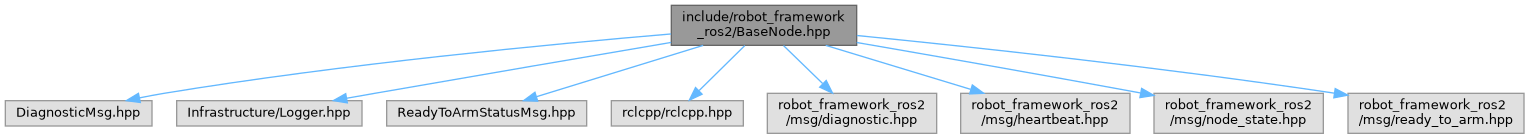
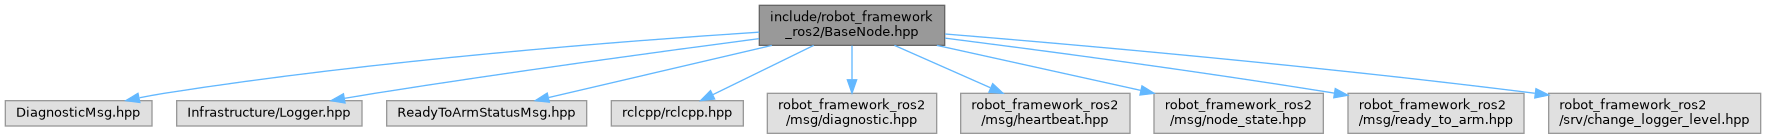
Deploying to gh-pages from  @ ccadf864f13578b655a5d6feec0e01a18417121b 🚀

diff --git a/BaseNode_8hpp_source.html b/BaseNode_8hpp_source.html
@@ -110,113 +110,120 @@ $(document).ready(function(){initNavTree('BaseNode_8hpp_source.html',''); initRe
 <div class="line"><a id="l00020" name="l00020"></a><span class="lineno">   20</span><span class="preprocessor">#include &lt;robot_framework_ros2/msg/heartbeat.hpp&gt;</span></div>
 <div class="line"><a id="l00021" name="l00021"></a><span class="lineno">   21</span><span class="preprocessor">#include &lt;robot_framework_ros2/msg/node_state.hpp&gt;</span></div>
 <div class="line"><a id="l00022" name="l00022"></a><span class="lineno">   22</span><span class="preprocessor">#include &lt;robot_framework_ros2/msg/ready_to_arm.hpp&gt;</span></div>
-<div class="line"><a id="l00023" name="l00023"></a><span class="lineno">   23</span> </div>
-<div class="foldopen" id="foldopen00024" data-start="{" data-end="}">
-<div class="line"><a id="l00024" name="l00024"></a><span class="lineno"><a class="line" href="namespacefast.html">   24</a></span><span class="keyword">namespace </span><a class="code hl_namespace" href="namespacefast_1_1rf__ros2.html">fast::rf_ros2</a> {</div>
-<div class="foldopen" id="foldopen00025" data-start="{" data-end="};">
-<div class="line"><a id="l00025" name="l00025"></a><span class="lineno"><a class="line" href="classfast_1_1rf__ros2_1_1BaseNode.html">   25</a></span>    <span class="keyword">class </span><a class="code hl_class" href="classfast_1_1rf__ros2_1_1BaseNode.html">BaseNode</a> : <span class="keyword">public</span> rclcpp::Node {</div>
-<div class="line"><a id="l00026" name="l00026"></a><span class="lineno">   26</span>       <span class="keyword">public</span>:</div>
-<div class="line"><a id="l00027" name="l00027"></a><span class="lineno">   27</span>        <a class="code hl_class" href="classfast_1_1rf__ros2_1_1BaseNode.html">BaseNode</a>(<span class="keyword">const</span> std::string&amp; node_name);</div>
-<div class="line"><a id="l00028" name="l00028"></a><span class="lineno">   28</span>        <span class="keyword">virtual</span> <a class="code hl_class" href="classfast_1_1rf__ros2_1_1BaseNode.html">~BaseNode</a>() = <span class="keywordflow">default</span>;</div>
-<div class="line"><a id="l00029" name="l00029"></a><span class="lineno">   29</span> </div>
-<div class="line"><a id="l00030" name="l00030"></a><span class="lineno">   30</span>        <span class="comment">// Factory method declaration</span></div>
-<div class="line"><a id="l00031" name="l00031"></a><span class="lineno">   31</span>        <span class="keyword">static</span> std::shared_ptr&lt;BaseNode&gt; createNode();</div>
-<div class="line"><a id="l00032" name="l00032"></a><span class="lineno">   32</span> </div>
-<div class="line"><a id="l00039" name="l00039"></a><span class="lineno">   39</span>        <span class="keywordtype">bool</span> <a class="code hl_function" href="classfast_1_1rf__ros2_1_1BaseNode.html#a137522d07324cebb7983d0883099bb4b">init</a>();</div>
-<div class="line"><a id="l00040" name="l00040"></a><span class="lineno">   40</span> </div>
-<div class="line"><a id="l00047" name="l00047"></a><span class="lineno">   47</span>        <span class="keywordtype">bool</span> <a class="code hl_function" href="classfast_1_1rf__ros2_1_1BaseNode.html#aebfb414138a6ede43aa956e266e35268">start</a>();</div>
-<div class="line"><a id="l00048" name="l00048"></a><span class="lineno">   48</span> </div>
-<div class="line"><a id="l00055" name="l00055"></a><span class="lineno">   55</span>        <span class="keywordtype">bool</span> <a class="code hl_function" href="classfast_1_1rf__ros2_1_1BaseNode.html#ae3e4727c26a032d1c8b0721151cee1a7">reset</a>();</div>
-<div class="line"><a id="l00056" name="l00056"></a><span class="lineno">   56</span> </div>
-<div class="line"><a id="l00057" name="l00057"></a><span class="lineno">   57</span>       <span class="keyword">protected</span>:</div>
-<div class="line"><a id="l00058" name="l00058"></a><span class="lineno">   58</span>        std::string getHostName();</div>
-<div class="line"><a id="l00059" name="l00059"></a><span class="lineno">   59</span>        std::string getBaseNodeName()<span class="keyword"> const </span>{ <span class="keywordflow">return</span> m_baseNodeName; }</div>
-<div class="line"><a id="l00060" name="l00060"></a><span class="lineno">   60</span>        std::string getRobotNamespace() { <span class="keywordflow">return</span> m_robotNamespace; }</div>
-<div class="line"><a id="l00061" name="l00061"></a><span class="lineno">   61</span>        std::string getNamespacedTopic(<span class="keyword">const</span> std::string&amp; topic) <span class="keyword">const</span>;</div>
-<div class="line"><a id="l00062" name="l00062"></a><span class="lineno">   62</span>        std::string getNodeConfigNamespace() { <span class="keywordflow">return</span> m_nodeConfigNamespace; }</div>
-<div class="line"><a id="l00063" name="l00063"></a><span class="lineno">   63</span>        <span class="keywordtype">void</span> setDiagnostics(std::vector&lt;fast::rf::messages::InfrastructureMsgs::DiagnosticMsg&gt; diagnostics) {</div>
-<div class="line"><a id="l00064" name="l00064"></a><span class="lineno">   64</span>            m_diagnostics = diagnostics;</div>
-<div class="line"><a id="l00065" name="l00065"></a><span class="lineno">   65</span>        }</div>
-<div class="line"><a id="l00066" name="l00066"></a><span class="lineno">   66</span>        <span class="keywordtype">void</span> setReadyToArm(fast::rf::messages::InfrastructureMsgs::ReadyToArmStatusMsg readyToArm) {</div>
-<div class="line"><a id="l00067" name="l00067"></a><span class="lineno">   67</span>            m_readyToArm.system_id = readyToArm.systemID;</div>
-<div class="line"><a id="l00068" name="l00068"></a><span class="lineno">   68</span>            m_readyToArm.subsystem_id = readyToArm.subsystemID;</div>
-<div class="line"><a id="l00069" name="l00069"></a><span class="lineno">   69</span>            m_readyToArm.process_id = readyToArm.processID;</div>
-<div class="line"><a id="l00070" name="l00070"></a><span class="lineno">   70</span>            m_readyToArm.ready_to_arm = readyToArm.ready_to_arm;</div>
-<div class="line"><a id="l00071" name="l00071"></a><span class="lineno">   71</span>        }</div>
-<div class="line"><a id="l00072" name="l00072"></a><span class="lineno">   72</span>        <span class="comment">// User Timing Loops</span></div>
-<div class="line"><a id="l00073" name="l00073"></a><span class="lineno">   73</span>        <span class="keyword">virtual</span> <span class="keywordtype">void</span> run100Hz() = 0;</div>
-<div class="line"><a id="l00074" name="l00074"></a><span class="lineno">   74</span>        <span class="keyword">virtual</span> <span class="keywordtype">void</span> run10Hz() = 0;</div>
-<div class="line"><a id="l00075" name="l00075"></a><span class="lineno">   75</span>        <span class="keyword">virtual</span> <span class="keywordtype">void</span> run1Hz() = 0;</div>
-<div class="line"><a id="l00076" name="l00076"></a><span class="lineno">   76</span>        <span class="keyword">virtual</span> <span class="keywordtype">void</span> run01Hz() = 0;</div>
-<div class="line"><a id="l00077" name="l00077"></a><span class="lineno">   77</span>        <span class="keyword">virtual</span> <span class="keywordtype">void</span> run001Hz() = 0;</div>
-<div class="line"><a id="l00078" name="l00078"></a><span class="lineno">   78</span>        <span class="keyword">virtual</span> <span class="keywordtype">void</span> runLoop1() = 0;</div>
-<div class="line"><a id="l00079" name="l00079"></a><span class="lineno">   79</span>        <span class="keyword">virtual</span> <span class="keywordtype">void</span> runLoop2() = 0;</div>
-<div class="line"><a id="l00080" name="l00080"></a><span class="lineno">   80</span>        <span class="keyword">virtual</span> <span class="keywordtype">void</span> runLoop3() = 0;</div>
-<div class="line"><a id="l00081" name="l00081"></a><span class="lineno">   81</span> </div>
-<div class="line"><a id="l00088" name="l00088"></a><span class="lineno"><a class="line" href="classfast_1_1rf__ros2_1_1BaseNode.html#a86ce04061d533c46784d2cd1858349d9">   88</a></span>        <span class="keyword">virtual</span> <span class="keywordtype">bool</span> <a class="code hl_function" href="classfast_1_1rf__ros2_1_1BaseNode.html#a86ce04061d533c46784d2cd1858349d9">loadConfig</a>() = 0;</div>
-<div class="line"><a id="l00089" name="l00089"></a><span class="lineno">   89</span>        <span class="keyword">virtual</span> <span class="keywordtype">bool</span> initPubSubs() = 0;</div>
-<div class="line"><a id="l00090" name="l00090"></a><span class="lineno">   90</span>        <span class="keyword">virtual</span> <span class="keywordtype">bool</span> initServices() = 0;</div>
-<div class="line"><a id="l00091" name="l00091"></a><span class="lineno">   91</span>        <span class="keyword">virtual</span> <span class="keywordtype">bool</span> initDiagnostics() = 0;</div>
-<div class="line"><a id="l00092" name="l00092"></a><span class="lineno">   92</span>        <span class="keyword">virtual</span> <span class="keywordtype">bool</span> initData() = 0;</div>
-<div class="line"><a id="l00093" name="l00093"></a><span class="lineno">   93</span> </div>
-<div class="line"><a id="l00094" name="l00094"></a><span class="lineno">   94</span>        <span class="keyword">virtual</span> std::string pretty() = 0;</div>
-<div class="line"><a id="l00095" name="l00095"></a><span class="lineno">   95</span> </div>
-<div class="line"><a id="l00096" name="l00096"></a><span class="lineno">   96</span>       <span class="keyword">private</span>:</div>
-<div class="line"><a id="l00103" name="l00103"></a><span class="lineno">  103</span>        <span class="keywordtype">bool</span> baseLoadConfig();</div>
-<div class="line"><a id="l00104" name="l00104"></a><span class="lineno">  104</span>        <span class="keywordtype">bool</span> baseInitPubSubs();</div>
-<div class="line"><a id="l00105" name="l00105"></a><span class="lineno">  105</span>        <span class="keywordtype">bool</span> baseInitServices();</div>
-<div class="line"><a id="l00106" name="l00106"></a><span class="lineno">  106</span>        <span class="keywordtype">bool</span> baseInitDiagnostics();</div>
-<div class="line"><a id="l00107" name="l00107"></a><span class="lineno">  107</span>        <span class="keywordtype">bool</span> baseInitData();</div>
-<div class="line"><a id="l00108" name="l00108"></a><span class="lineno">  108</span> </div>
-<div class="line"><a id="l00109" name="l00109"></a><span class="lineno">  109</span>        <span class="keywordtype">bool</span> requestNodeStateChange(uint8_t newState, <span class="keywordtype">bool</span> <span class="keyword">override</span> = <span class="keyword">false</span>);</div>
-<div class="line"><a id="l00110" name="l00110"></a><span class="lineno">  110</span>        <span class="comment">// Properties</span></div>
-<div class="line"><a id="l00111" name="l00111"></a><span class="lineno">  111</span>        std::string m_baseNodeName{<span class="stringliteral">&quot;&quot;</span>};</div>
-<div class="line"><a id="l00112" name="l00112"></a><span class="lineno">  112</span>        robot_framework_ros2::msg::NodeState m_nodeState;</div>
-<div class="line"><a id="l00113" name="l00113"></a><span class="lineno">  113</span>        robot_framework_ros2::msg::Heartbeat m_heartbeat;</div>
-<div class="line"><a id="l00114" name="l00114"></a><span class="lineno">  114</span>        robot_framework_ros2::msg::ReadyToArm m_readyToArm;</div>
-<div class="line"><a id="l00115" name="l00115"></a><span class="lineno">  115</span> </div>
-<div class="line"><a id="l00116" name="l00116"></a><span class="lineno">  116</span>        <span class="comment">// Loop Callbacks and Timers</span></div>
-<div class="line"><a id="l00117" name="l00117"></a><span class="lineno">  117</span>        <span class="keyword">virtual</span> <span class="keywordtype">void</span> timer100HzCallback();</div>
-<div class="line"><a id="l00118" name="l00118"></a><span class="lineno">  118</span>        <span class="keyword">virtual</span> <span class="keywordtype">void</span> timer10HzCallback();</div>
-<div class="line"><a id="l00119" name="l00119"></a><span class="lineno">  119</span>        <span class="keyword">virtual</span> <span class="keywordtype">void</span> timer1HzCallback();</div>
-<div class="line"><a id="l00120" name="l00120"></a><span class="lineno">  120</span>        <span class="keyword">virtual</span> <span class="keywordtype">void</span> timer01HzCallback();</div>
-<div class="line"><a id="l00121" name="l00121"></a><span class="lineno">  121</span>        <span class="keyword">virtual</span> <span class="keywordtype">void</span> timer001HzCallback();</div>
-<div class="line"><a id="l00122" name="l00122"></a><span class="lineno">  122</span>        <span class="keyword">virtual</span> <span class="keywordtype">void</span> timerLoop1Callback();</div>
-<div class="line"><a id="l00123" name="l00123"></a><span class="lineno">  123</span>        <span class="keyword">virtual</span> <span class="keywordtype">void</span> timerLoop2Callback();</div>
-<div class="line"><a id="l00124" name="l00124"></a><span class="lineno">  124</span>        <span class="keyword">virtual</span> <span class="keywordtype">void</span> timerLoop3Callback();</div>
-<div class="line"><a id="l00125" name="l00125"></a><span class="lineno">  125</span>        rclcpp::TimerBase::SharedPtr m_timer100Hz{<span class="keyword">nullptr</span>};</div>
-<div class="line"><a id="l00126" name="l00126"></a><span class="lineno">  126</span>        rclcpp::TimerBase::SharedPtr m_timer10Hz{<span class="keyword">nullptr</span>};</div>
-<div class="line"><a id="l00127" name="l00127"></a><span class="lineno">  127</span>        rclcpp::TimerBase::SharedPtr m_timer1Hz{<span class="keyword">nullptr</span>};</div>
-<div class="line"><a id="l00128" name="l00128"></a><span class="lineno">  128</span>        rclcpp::TimerBase::SharedPtr m_timer01Hz{<span class="keyword">nullptr</span>};</div>
-<div class="line"><a id="l00129" name="l00129"></a><span class="lineno">  129</span>        rclcpp::TimerBase::SharedPtr m_timer001Hz{<span class="keyword">nullptr</span>};</div>
-<div class="line"><a id="l00130" name="l00130"></a><span class="lineno">  130</span>        rclcpp::TimerBase::SharedPtr m_timerLoop1{<span class="keyword">nullptr</span>};</div>
-<div class="line"><a id="l00131" name="l00131"></a><span class="lineno">  131</span>        rclcpp::TimerBase::SharedPtr m_timerLoop2{<span class="keyword">nullptr</span>};</div>
-<div class="line"><a id="l00132" name="l00132"></a><span class="lineno">  132</span>        rclcpp::TimerBase::SharedPtr m_timerLoop3{<span class="keyword">nullptr</span>};</div>
-<div class="line"><a id="l00133" name="l00133"></a><span class="lineno">  133</span>        <span class="keywordtype">void</span> baseRun100Hz();</div>
-<div class="line"><a id="l00134" name="l00134"></a><span class="lineno">  134</span>        <span class="keywordtype">void</span> baseRun10Hz();</div>
-<div class="line"><a id="l00135" name="l00135"></a><span class="lineno">  135</span>        <span class="keywordtype">void</span> baseRun1Hz();</div>
-<div class="line"><a id="l00136" name="l00136"></a><span class="lineno">  136</span>        <span class="keywordtype">void</span> baseRun01Hz();</div>
-<div class="line"><a id="l00137" name="l00137"></a><span class="lineno">  137</span>        <span class="keywordtype">void</span> baseRun001Hz();</div>
-<div class="line"><a id="l00138" name="l00138"></a><span class="lineno">  138</span> </div>
-<div class="line"><a id="l00139" name="l00139"></a><span class="lineno">  139</span>        <span class="comment">// Pubs and Subs</span></div>
-<div class="line"><a id="l00140" name="l00140"></a><span class="lineno">  140</span>        rclcpp::Publisher&lt;robot_framework_ros2::msg::Heartbeat&gt;::SharedPtr m_heartbeatPub;</div>
-<div class="line"><a id="l00141" name="l00141"></a><span class="lineno">  141</span>        rclcpp::Publisher&lt;robot_framework_ros2::msg::Diagnostic&gt;::SharedPtr m_diagnosticPub;</div>
-<div class="line"><a id="l00142" name="l00142"></a><span class="lineno">  142</span>        rclcpp::Publisher&lt;robot_framework_ros2::msg::ReadyToArm&gt;::SharedPtr m_readyToArmPub;</div>
-<div class="line"><a id="l00143" name="l00143"></a><span class="lineno">  143</span> </div>
-<div class="line"><a id="l00144" name="l00144"></a><span class="lineno">  144</span>        <span class="comment">// Data</span></div>
-<div class="line"><a id="l00145" name="l00145"></a><span class="lineno">  145</span>        std::vector&lt;fast::rf::messages::InfrastructureMsgs::DiagnosticMsg&gt; m_diagnostics;</div>
-<div class="line"><a id="l00146" name="l00146"></a><span class="lineno">  146</span>        std::string m_robotNamespace;</div>
-<div class="line"><a id="l00147" name="l00147"></a><span class="lineno">  147</span>        std::string m_nodeConfigNamespace;</div>
-<div class="line"><a id="l00148" name="l00148"></a><span class="lineno">  148</span>    };</div>
+<div class="line"><a id="l00023" name="l00023"></a><span class="lineno">   23</span><span class="preprocessor">#include &lt;robot_framework_ros2/srv/change_logger_level.hpp&gt;</span></div>
+<div class="line"><a id="l00024" name="l00024"></a><span class="lineno">   24</span> </div>
+<div class="foldopen" id="foldopen00025" data-start="{" data-end="}">
+<div class="line"><a id="l00025" name="l00025"></a><span class="lineno"><a class="line" href="namespacefast.html">   25</a></span><span class="keyword">namespace </span><a class="code hl_namespace" href="namespacefast_1_1rf__ros2.html">fast::rf_ros2</a> {</div>
+<div class="foldopen" id="foldopen00026" data-start="{" data-end="};">
+<div class="line"><a id="l00026" name="l00026"></a><span class="lineno"><a class="line" href="classfast_1_1rf__ros2_1_1BaseNode.html">   26</a></span>    <span class="keyword">class </span><a class="code hl_class" href="classfast_1_1rf__ros2_1_1BaseNode.html">BaseNode</a> : <span class="keyword">public</span> rclcpp::Node {</div>
+<div class="line"><a id="l00027" name="l00027"></a><span class="lineno">   27</span>       <span class="keyword">public</span>:</div>
+<div class="line"><a id="l00028" name="l00028"></a><span class="lineno">   28</span>        <a class="code hl_class" href="classfast_1_1rf__ros2_1_1BaseNode.html">BaseNode</a>(<span class="keyword">const</span> std::string&amp; node_name);</div>
+<div class="line"><a id="l00029" name="l00029"></a><span class="lineno">   29</span>        <span class="keyword">virtual</span> <a class="code hl_class" href="classfast_1_1rf__ros2_1_1BaseNode.html">~BaseNode</a>() = <span class="keywordflow">default</span>;</div>
+<div class="line"><a id="l00030" name="l00030"></a><span class="lineno">   30</span> </div>
+<div class="line"><a id="l00031" name="l00031"></a><span class="lineno">   31</span>        <span class="comment">// Factory method declaration</span></div>
+<div class="line"><a id="l00032" name="l00032"></a><span class="lineno">   32</span>        <span class="keyword">static</span> std::shared_ptr&lt;BaseNode&gt; createNode();</div>
+<div class="line"><a id="l00033" name="l00033"></a><span class="lineno">   33</span> </div>
+<div class="line"><a id="l00040" name="l00040"></a><span class="lineno">   40</span>        <span class="keywordtype">bool</span> <a class="code hl_function" href="classfast_1_1rf__ros2_1_1BaseNode.html#a137522d07324cebb7983d0883099bb4b">init</a>();</div>
+<div class="line"><a id="l00041" name="l00041"></a><span class="lineno">   41</span> </div>
+<div class="line"><a id="l00048" name="l00048"></a><span class="lineno">   48</span>        <span class="keywordtype">bool</span> <a class="code hl_function" href="classfast_1_1rf__ros2_1_1BaseNode.html#aebfb414138a6ede43aa956e266e35268">start</a>();</div>
+<div class="line"><a id="l00049" name="l00049"></a><span class="lineno">   49</span> </div>
+<div class="line"><a id="l00056" name="l00056"></a><span class="lineno">   56</span>        <span class="keywordtype">bool</span> <a class="code hl_function" href="classfast_1_1rf__ros2_1_1BaseNode.html#ae3e4727c26a032d1c8b0721151cee1a7">reset</a>();</div>
+<div class="line"><a id="l00057" name="l00057"></a><span class="lineno">   57</span> </div>
+<div class="line"><a id="l00058" name="l00058"></a><span class="lineno">   58</span>       <span class="keyword">protected</span>:</div>
+<div class="line"><a id="l00059" name="l00059"></a><span class="lineno">   59</span>        std::string getHostName();</div>
+<div class="line"><a id="l00060" name="l00060"></a><span class="lineno">   60</span>        std::string getBaseNodeName()<span class="keyword"> const </span>{ <span class="keywordflow">return</span> m_baseNodeName; }</div>
+<div class="line"><a id="l00061" name="l00061"></a><span class="lineno">   61</span>        std::string getRobotNamespace() { <span class="keywordflow">return</span> m_robotNamespace; }</div>
+<div class="line"><a id="l00062" name="l00062"></a><span class="lineno">   62</span>        std::string getNamespacedTopic(<span class="keyword">const</span> std::string&amp; topic) <span class="keyword">const</span>;</div>
+<div class="line"><a id="l00063" name="l00063"></a><span class="lineno">   63</span>        std::string getNodeConfigNamespace() { <span class="keywordflow">return</span> m_nodeConfigNamespace; }</div>
+<div class="line"><a id="l00064" name="l00064"></a><span class="lineno">   64</span>        <span class="keywordtype">void</span> setDiagnostics(std::vector&lt;fast::rf::messages::InfrastructureMsgs::DiagnosticMsg&gt; diagnostics) {</div>
+<div class="line"><a id="l00065" name="l00065"></a><span class="lineno">   65</span>            m_diagnostics = diagnostics;</div>
+<div class="line"><a id="l00066" name="l00066"></a><span class="lineno">   66</span>        }</div>
+<div class="line"><a id="l00067" name="l00067"></a><span class="lineno">   67</span>        <span class="keywordtype">void</span> setReadyToArm(fast::rf::messages::InfrastructureMsgs::ReadyToArmStatusMsg readyToArm) {</div>
+<div class="line"><a id="l00068" name="l00068"></a><span class="lineno">   68</span>            m_readyToArm.system_id = readyToArm.systemID;</div>
+<div class="line"><a id="l00069" name="l00069"></a><span class="lineno">   69</span>            m_readyToArm.subsystem_id = readyToArm.subsystemID;</div>
+<div class="line"><a id="l00070" name="l00070"></a><span class="lineno">   70</span>            m_readyToArm.process_id = readyToArm.processID;</div>
+<div class="line"><a id="l00071" name="l00071"></a><span class="lineno">   71</span>            m_readyToArm.ready_to_arm = readyToArm.ready_to_arm;</div>
+<div class="line"><a id="l00072" name="l00072"></a><span class="lineno">   72</span>        }</div>
+<div class="line"><a id="l00073" name="l00073"></a><span class="lineno">   73</span>        <span class="comment">// User Timing Loops</span></div>
+<div class="line"><a id="l00074" name="l00074"></a><span class="lineno">   74</span>        <span class="keyword">virtual</span> <span class="keywordtype">void</span> run100Hz() = 0;</div>
+<div class="line"><a id="l00075" name="l00075"></a><span class="lineno">   75</span>        <span class="keyword">virtual</span> <span class="keywordtype">void</span> run10Hz() = 0;</div>
+<div class="line"><a id="l00076" name="l00076"></a><span class="lineno">   76</span>        <span class="keyword">virtual</span> <span class="keywordtype">void</span> run1Hz() = 0;</div>
+<div class="line"><a id="l00077" name="l00077"></a><span class="lineno">   77</span>        <span class="keyword">virtual</span> <span class="keywordtype">void</span> run01Hz() = 0;</div>
+<div class="line"><a id="l00078" name="l00078"></a><span class="lineno">   78</span>        <span class="keyword">virtual</span> <span class="keywordtype">void</span> run001Hz() = 0;</div>
+<div class="line"><a id="l00079" name="l00079"></a><span class="lineno">   79</span>        <span class="keyword">virtual</span> <span class="keywordtype">void</span> runLoop1() = 0;</div>
+<div class="line"><a id="l00080" name="l00080"></a><span class="lineno">   80</span>        <span class="keyword">virtual</span> <span class="keywordtype">void</span> runLoop2() = 0;</div>
+<div class="line"><a id="l00081" name="l00081"></a><span class="lineno">   81</span>        <span class="keyword">virtual</span> <span class="keywordtype">void</span> runLoop3() = 0;</div>
+<div class="line"><a id="l00082" name="l00082"></a><span class="lineno">   82</span> </div>
+<div class="line"><a id="l00089" name="l00089"></a><span class="lineno"><a class="line" href="classfast_1_1rf__ros2_1_1BaseNode.html#a86ce04061d533c46784d2cd1858349d9">   89</a></span>        <span class="keyword">virtual</span> <span class="keywordtype">bool</span> <a class="code hl_function" href="classfast_1_1rf__ros2_1_1BaseNode.html#a86ce04061d533c46784d2cd1858349d9">loadConfig</a>() = 0;</div>
+<div class="line"><a id="l00090" name="l00090"></a><span class="lineno">   90</span>        <span class="keyword">virtual</span> <span class="keywordtype">bool</span> initPubSubs() = 0;</div>
+<div class="line"><a id="l00091" name="l00091"></a><span class="lineno">   91</span>        <span class="keyword">virtual</span> <span class="keywordtype">bool</span> initServices() = 0;</div>
+<div class="line"><a id="l00092" name="l00092"></a><span class="lineno">   92</span>        <span class="keyword">virtual</span> <span class="keywordtype">bool</span> initDiagnostics() = 0;</div>
+<div class="line"><a id="l00093" name="l00093"></a><span class="lineno">   93</span>        <span class="keyword">virtual</span> <span class="keywordtype">bool</span> initData() = 0;</div>
+<div class="line"><a id="l00094" name="l00094"></a><span class="lineno">   94</span> </div>
+<div class="line"><a id="l00095" name="l00095"></a><span class="lineno">   95</span>        <span class="keyword">virtual</span> std::string pretty() = 0;</div>
+<div class="line"><a id="l00096" name="l00096"></a><span class="lineno">   96</span> </div>
+<div class="line"><a id="l00097" name="l00097"></a><span class="lineno">   97</span>       <span class="keyword">private</span>:</div>
+<div class="line"><a id="l00104" name="l00104"></a><span class="lineno">  104</span>        <span class="keywordtype">bool</span> baseLoadConfig();</div>
+<div class="line"><a id="l00105" name="l00105"></a><span class="lineno">  105</span>        <span class="keywordtype">bool</span> baseInitPubSubs();</div>
+<div class="line"><a id="l00106" name="l00106"></a><span class="lineno">  106</span>        <span class="keywordtype">bool</span> baseInitServices();</div>
+<div class="line"><a id="l00107" name="l00107"></a><span class="lineno">  107</span>        <span class="keywordtype">bool</span> baseInitDiagnostics();</div>
+<div class="line"><a id="l00108" name="l00108"></a><span class="lineno">  108</span>        <span class="keywordtype">bool</span> baseInitData();</div>
+<div class="line"><a id="l00109" name="l00109"></a><span class="lineno">  109</span> </div>
+<div class="line"><a id="l00110" name="l00110"></a><span class="lineno">  110</span>        <span class="keywordtype">bool</span> requestNodeStateChange(uint8_t newState, <span class="keywordtype">bool</span> <span class="keyword">override</span> = <span class="keyword">false</span>);</div>
+<div class="line"><a id="l00111" name="l00111"></a><span class="lineno">  111</span>        <span class="comment">// Properties</span></div>
+<div class="line"><a id="l00112" name="l00112"></a><span class="lineno">  112</span>        std::string m_baseNodeName{<span class="stringliteral">&quot;&quot;</span>};</div>
+<div class="line"><a id="l00113" name="l00113"></a><span class="lineno">  113</span>        robot_framework_ros2::msg::NodeState m_nodeState;</div>
+<div class="line"><a id="l00114" name="l00114"></a><span class="lineno">  114</span>        robot_framework_ros2::msg::Heartbeat m_heartbeat;</div>
+<div class="line"><a id="l00115" name="l00115"></a><span class="lineno">  115</span>        robot_framework_ros2::msg::ReadyToArm m_readyToArm;</div>
+<div class="line"><a id="l00116" name="l00116"></a><span class="lineno">  116</span> </div>
+<div class="line"><a id="l00117" name="l00117"></a><span class="lineno">  117</span>        <span class="comment">// Loop Callbacks and Timers</span></div>
+<div class="line"><a id="l00118" name="l00118"></a><span class="lineno">  118</span>        <span class="keyword">virtual</span> <span class="keywordtype">void</span> timer100HzCallback();</div>
+<div class="line"><a id="l00119" name="l00119"></a><span class="lineno">  119</span>        <span class="keyword">virtual</span> <span class="keywordtype">void</span> timer10HzCallback();</div>
+<div class="line"><a id="l00120" name="l00120"></a><span class="lineno">  120</span>        <span class="keyword">virtual</span> <span class="keywordtype">void</span> timer1HzCallback();</div>
+<div class="line"><a id="l00121" name="l00121"></a><span class="lineno">  121</span>        <span class="keyword">virtual</span> <span class="keywordtype">void</span> timer01HzCallback();</div>
+<div class="line"><a id="l00122" name="l00122"></a><span class="lineno">  122</span>        <span class="keyword">virtual</span> <span class="keywordtype">void</span> timer001HzCallback();</div>
+<div class="line"><a id="l00123" name="l00123"></a><span class="lineno">  123</span>        <span class="keyword">virtual</span> <span class="keywordtype">void</span> timerLoop1Callback();</div>
+<div class="line"><a id="l00124" name="l00124"></a><span class="lineno">  124</span>        <span class="keyword">virtual</span> <span class="keywordtype">void</span> timerLoop2Callback();</div>
+<div class="line"><a id="l00125" name="l00125"></a><span class="lineno">  125</span>        <span class="keyword">virtual</span> <span class="keywordtype">void</span> timerLoop3Callback();</div>
+<div class="line"><a id="l00126" name="l00126"></a><span class="lineno">  126</span>        rclcpp::TimerBase::SharedPtr m_timer100Hz{<span class="keyword">nullptr</span>};</div>
+<div class="line"><a id="l00127" name="l00127"></a><span class="lineno">  127</span>        rclcpp::TimerBase::SharedPtr m_timer10Hz{<span class="keyword">nullptr</span>};</div>
+<div class="line"><a id="l00128" name="l00128"></a><span class="lineno">  128</span>        rclcpp::TimerBase::SharedPtr m_timer1Hz{<span class="keyword">nullptr</span>};</div>
+<div class="line"><a id="l00129" name="l00129"></a><span class="lineno">  129</span>        rclcpp::TimerBase::SharedPtr m_timer01Hz{<span class="keyword">nullptr</span>};</div>
+<div class="line"><a id="l00130" name="l00130"></a><span class="lineno">  130</span>        rclcpp::TimerBase::SharedPtr m_timer001Hz{<span class="keyword">nullptr</span>};</div>
+<div class="line"><a id="l00131" name="l00131"></a><span class="lineno">  131</span>        rclcpp::TimerBase::SharedPtr m_timerLoop1{<span class="keyword">nullptr</span>};</div>
+<div class="line"><a id="l00132" name="l00132"></a><span class="lineno">  132</span>        rclcpp::TimerBase::SharedPtr m_timerLoop2{<span class="keyword">nullptr</span>};</div>
+<div class="line"><a id="l00133" name="l00133"></a><span class="lineno">  133</span>        rclcpp::TimerBase::SharedPtr m_timerLoop3{<span class="keyword">nullptr</span>};</div>
+<div class="line"><a id="l00134" name="l00134"></a><span class="lineno">  134</span>        <span class="keywordtype">void</span> baseRun100Hz();</div>
+<div class="line"><a id="l00135" name="l00135"></a><span class="lineno">  135</span>        <span class="keywordtype">void</span> baseRun10Hz();</div>
+<div class="line"><a id="l00136" name="l00136"></a><span class="lineno">  136</span>        <span class="keywordtype">void</span> baseRun1Hz();</div>
+<div class="line"><a id="l00137" name="l00137"></a><span class="lineno">  137</span>        <span class="keywordtype">void</span> baseRun01Hz();</div>
+<div class="line"><a id="l00138" name="l00138"></a><span class="lineno">  138</span>        <span class="keywordtype">void</span> baseRun001Hz();</div>
+<div class="line"><a id="l00139" name="l00139"></a><span class="lineno">  139</span> </div>
+<div class="line"><a id="l00140" name="l00140"></a><span class="lineno">  140</span>        <span class="comment">// Pubs and Subs</span></div>
+<div class="line"><a id="l00141" name="l00141"></a><span class="lineno">  141</span>        rclcpp::Publisher&lt;robot_framework_ros2::msg::Heartbeat&gt;::SharedPtr m_heartbeatPub;</div>
+<div class="line"><a id="l00142" name="l00142"></a><span class="lineno">  142</span>        rclcpp::Publisher&lt;robot_framework_ros2::msg::Diagnostic&gt;::SharedPtr m_diagnosticPub;</div>
+<div class="line"><a id="l00143" name="l00143"></a><span class="lineno">  143</span>        rclcpp::Publisher&lt;robot_framework_ros2::msg::ReadyToArm&gt;::SharedPtr m_readyToArmPub;</div>
+<div class="line"><a id="l00144" name="l00144"></a><span class="lineno">  144</span> </div>
+<div class="line"><a id="l00145" name="l00145"></a><span class="lineno">  145</span>        <span class="comment">// Services</span></div>
+<div class="line"><a id="l00146" name="l00146"></a><span class="lineno">  146</span>        <span class="keywordtype">void</span> changeLoggerLevelService(</div>
+<div class="line"><a id="l00147" name="l00147"></a><span class="lineno">  147</span>            <span class="keyword">const</span> std::shared_ptr&lt;robot_framework_ros2::srv::ChangeLoggerLevel::Request&gt; request,</div>
+<div class="line"><a id="l00148" name="l00148"></a><span class="lineno">  148</span>            std::shared_ptr&lt;robot_framework_ros2::srv::ChangeLoggerLevel::Response&gt; response);</div>
+<div class="line"><a id="l00149" name="l00149"></a><span class="lineno">  149</span>        rclcpp::Service&lt;robot_framework_ros2::srv::ChangeLoggerLevel&gt;::SharedPtr m_changeLoggerLevelSrvServer;</div>
+<div class="line"><a id="l00150" name="l00150"></a><span class="lineno">  150</span> </div>
+<div class="line"><a id="l00151" name="l00151"></a><span class="lineno">  151</span>        <span class="comment">// Data</span></div>
+<div class="line"><a id="l00152" name="l00152"></a><span class="lineno">  152</span>        std::vector&lt;fast::rf::messages::InfrastructureMsgs::DiagnosticMsg&gt; m_diagnostics;</div>
+<div class="line"><a id="l00153" name="l00153"></a><span class="lineno">  153</span>        std::string m_robotNamespace;</div>
+<div class="line"><a id="l00154" name="l00154"></a><span class="lineno">  154</span>        std::string m_nodeConfigNamespace;</div>
+<div class="line"><a id="l00155" name="l00155"></a><span class="lineno">  155</span>    };</div>
 </div>
-<div class="line"><a id="l00149" name="l00149"></a><span class="lineno">  149</span>}  <span class="comment">// namespace fast::rf_ros2</span></div>
+<div class="line"><a id="l00156" name="l00156"></a><span class="lineno">  156</span>}  <span class="comment">// namespace fast::rf_ros2</span></div>
 </div>
-<div class="ttc" id="aclassfast_1_1rf__ros2_1_1BaseNode_html"><div class="ttname"><a href="classfast_1_1rf__ros2_1_1BaseNode.html">fast::rf_ros2::BaseNode</a></div><div class="ttdef"><b>Definition</b> BaseNode.hpp:25</div></div>
-<div class="ttc" id="aclassfast_1_1rf__ros2_1_1BaseNode_html_a137522d07324cebb7983d0883099bb4b"><div class="ttname"><a href="classfast_1_1rf__ros2_1_1BaseNode.html#a137522d07324cebb7983d0883099bb4b">fast::rf_ros2::BaseNode::init</a></div><div class="ttdeci">bool init()</div><div class="ttdoc">Initialize the Node.</div><div class="ttdef"><b>Definition</b> BaseNode.cpp:106</div></div>
+<div class="ttc" id="aclassfast_1_1rf__ros2_1_1BaseNode_html"><div class="ttname"><a href="classfast_1_1rf__ros2_1_1BaseNode.html">fast::rf_ros2::BaseNode</a></div><div class="ttdef"><b>Definition</b> BaseNode.hpp:26</div></div>
+<div class="ttc" id="aclassfast_1_1rf__ros2_1_1BaseNode_html_a137522d07324cebb7983d0883099bb4b"><div class="ttname"><a href="classfast_1_1rf__ros2_1_1BaseNode.html#a137522d07324cebb7983d0883099bb4b">fast::rf_ros2::BaseNode::init</a></div><div class="ttdeci">bool init()</div><div class="ttdoc">Initialize the Node.</div><div class="ttdef"><b>Definition</b> BaseNode.cpp:119</div></div>
 <div class="ttc" id="aclassfast_1_1rf__ros2_1_1BaseNode_html_a86ce04061d533c46784d2cd1858349d9"><div class="ttname"><a href="classfast_1_1rf__ros2_1_1BaseNode.html#a86ce04061d533c46784d2cd1858349d9">fast::rf_ros2::BaseNode::loadConfig</a></div><div class="ttdeci">virtual bool loadConfig()=0</div><div class="ttdoc">General Config Loader. Anything can load config for specific config needs.</div></div>
-<div class="ttc" id="aclassfast_1_1rf__ros2_1_1BaseNode_html_ae3e4727c26a032d1c8b0721151cee1a7"><div class="ttname"><a href="classfast_1_1rf__ros2_1_1BaseNode.html#ae3e4727c26a032d1c8b0721151cee1a7">fast::rf_ros2::BaseNode::reset</a></div><div class="ttdeci">bool reset()</div><div class="ttdoc">Restart the Node.</div><div class="ttdef"><b>Definition</b> BaseNode.cpp:190</div></div>
-<div class="ttc" id="aclassfast_1_1rf__ros2_1_1BaseNode_html_aebfb414138a6ede43aa956e266e35268"><div class="ttname"><a href="classfast_1_1rf__ros2_1_1BaseNode.html#aebfb414138a6ede43aa956e266e35268">fast::rf_ros2::BaseNode::start</a></div><div class="ttdeci">bool start()</div><div class="ttdoc">Start the Node.</div><div class="ttdef"><b>Definition</b> BaseNode.cpp:153</div></div>
-<div class="ttc" id="anamespacefast_1_1rf__ros2_html"><div class="ttname"><a href="namespacefast_1_1rf__ros2.html">fast::rf_ros2</a></div><div class="ttdoc">Namespace for FAST Robotics ROS2 Robot Framework.</div><div class="ttdef"><b>Definition</b> BaseNode.hpp:24</div></div>
+<div class="ttc" id="aclassfast_1_1rf__ros2_1_1BaseNode_html_ae3e4727c26a032d1c8b0721151cee1a7"><div class="ttname"><a href="classfast_1_1rf__ros2_1_1BaseNode.html#ae3e4727c26a032d1c8b0721151cee1a7">fast::rf_ros2::BaseNode::reset</a></div><div class="ttdeci">bool reset()</div><div class="ttdoc">Restart the Node.</div><div class="ttdef"><b>Definition</b> BaseNode.cpp:203</div></div>
+<div class="ttc" id="aclassfast_1_1rf__ros2_1_1BaseNode_html_aebfb414138a6ede43aa956e266e35268"><div class="ttname"><a href="classfast_1_1rf__ros2_1_1BaseNode.html#aebfb414138a6ede43aa956e266e35268">fast::rf_ros2::BaseNode::start</a></div><div class="ttdeci">bool start()</div><div class="ttdoc">Start the Node.</div><div class="ttdef"><b>Definition</b> BaseNode.cpp:166</div></div>
+<div class="ttc" id="anamespacefast_1_1rf__ros2_html"><div class="ttname"><a href="namespacefast_1_1rf__ros2.html">fast::rf_ros2</a></div><div class="ttdoc">Namespace for FAST Robotics ROS2 Robot Framework.</div><div class="ttdef"><b>Definition</b> BaseNode.hpp:25</div></div>
 </div><!-- fragment --></div><!-- contents -->
 </div><!-- doc-content -->
 <!-- start footer part -->

diff --git a/BaseNode_8hpp.html b/BaseNode_8hpp.html
@@ -103,28 +103,31 @@ $(document).ready(function(){initNavTree('BaseNode_8hpp.html',''); initResizable
 <code>#include &lt;robot_framework_ros2/msg/heartbeat.hpp&gt;</code><br />
 <code>#include &lt;robot_framework_ros2/msg/node_state.hpp&gt;</code><br />
 <code>#include &lt;robot_framework_ros2/msg/ready_to_arm.hpp&gt;</code><br />
+<code>#include &lt;robot_framework_ros2/srv/change_logger_level.hpp&gt;</code><br />
 </div><div class="textblock"><div class="dynheader">
 Include dependency graph for BaseNode.hpp:</div>
 <div class="dyncontent">
 <div class="center"><img src="BaseNode_8hpp__incl.png" border="0" usemap="#ainclude_2robot__framework__ros2_2BaseNode_8hpp" alt=""/></div>
 <map name="ainclude_2robot__framework__ros2_2BaseNode_8hpp" id="ainclude_2robot__framework__ros2_2BaseNode_8hpp">
-<area shape="rect" title=" " alt="" coords="671,5,857,45"/>
+<area shape="rect" title=" " alt="" coords="759,5,945,45"/>
 <area shape="rect" title=" " alt="" coords="5,101,152,126"/>
-<area shape="poly" title=" " alt="" coords="671,37,440,59,302,76,164,96,140,100,139,95,164,91,302,70,440,54,671,31"/>
+<area shape="poly" title=" " alt="" coords="759,35,491,56,328,74,164,96,140,100,139,95,164,91,327,68,491,51,759,29"/>
 <area shape="rect" title=" " alt="" coords="177,101,362,126"/>
-<area shape="poly" title=" " alt="" coords="672,45,375,96,347,101,346,96,374,91,671,40"/>
+<area shape="poly" title=" " alt="" coords="759,41,375,96,345,101,344,96,374,91,759,36"/>
 <area shape="rect" title=" " alt="" coords="387,101,587,126"/>
-<area shape="poly" title=" " alt="" coords="704,48,537,99,536,94,702,43"/>
+<area shape="poly" title=" " alt="" coords="772,48,549,100,548,95,771,43"/>
 <area shape="rect" title=" " alt="" coords="611,101,743,126"/>
-<area shape="poly" title=" " alt="" coords="747,48,701,92,697,89,743,44"/>
+<area shape="poly" title=" " alt="" coords="815,48,714,97,712,92,812,43"/>
 <area shape="rect" title=" " alt="" coords="767,93,937,133"/>
-<area shape="poly" title=" " alt="" coords="785,44,825,82,821,86,782,48"/>
+<area shape="poly" title=" " alt="" coords="855,46,855,79,849,79,849,46"/>
 <area shape="rect" title=" " alt="" coords="961,93,1130,133"/>
-<area shape="poly" title=" " alt="" coords="827,43,971,87,970,92,825,48"/>
+<area shape="poly" title=" " alt="" coords="896,43,991,85,989,90,893,48"/>
 <area shape="rect" title=" " alt="" coords="1154,93,1323,133"/>
-<area shape="poly" title=" " alt="" coords="857,40,1141,90,1140,96,856,45"/>
+<area shape="poly" title=" " alt="" coords="937,43,1141,88,1140,93,936,48"/>
 <area shape="rect" title=" " alt="" coords="1348,93,1524,133"/>
-<area shape="poly" title=" " alt="" coords="857,33,1071,56,1335,91,1334,96,1071,61,857,38"/>
+<area shape="poly" title=" " alt="" coords="945,35,1122,59,1335,90,1334,96,1121,64,945,41"/>
+<area shape="rect" title=" " alt="" coords="1549,93,1761,133"/>
+<area shape="poly" title=" " alt="" coords="945,31,1206,55,1535,91,1535,96,1206,60,945,37"/>
 </map>
 </div>
 </div>

diff --git a/CoreUtility_8hpp_source.html b/CoreUtility_8hpp_source.html
@@ -114,7 +114,7 @@ $(document).ready(function(){initNavTree('CoreUtility_8hpp_source.html',''); ini
 </div>
 <div class="line"><a id="l00021" name="l00021"></a><span class="lineno">   21</span>}  <span class="comment">// namespace fast::rf_ros2</span></div>
 <div class="ttc" id="aclassfast_1_1rf__ros2_1_1utils_1_1CoreUtility_html"><div class="ttname"><a href="classfast_1_1rf__ros2_1_1utils_1_1CoreUtility.html">fast::rf_ros2::utils::CoreUtility</a></div><div class="ttdef"><b>Definition</b> CoreUtility.hpp:16</div></div>
-<div class="ttc" id="anamespacefast_1_1rf__ros2_html"><div class="ttname"><a href="namespacefast_1_1rf__ros2.html">fast::rf_ros2</a></div><div class="ttdoc">Namespace for FAST Robotics ROS2 Robot Framework.</div><div class="ttdef"><b>Definition</b> BaseNode.hpp:24</div></div>
+<div class="ttc" id="anamespacefast_1_1rf__ros2_html"><div class="ttname"><a href="namespacefast_1_1rf__ros2.html">fast::rf_ros2</a></div><div class="ttdoc">Namespace for FAST Robotics ROS2 Robot Framework.</div><div class="ttdef"><b>Definition</b> BaseNode.hpp:25</div></div>
 </div><!-- fragment --></div><!-- contents -->
 </div><!-- doc-content -->
 <!-- start footer part -->
